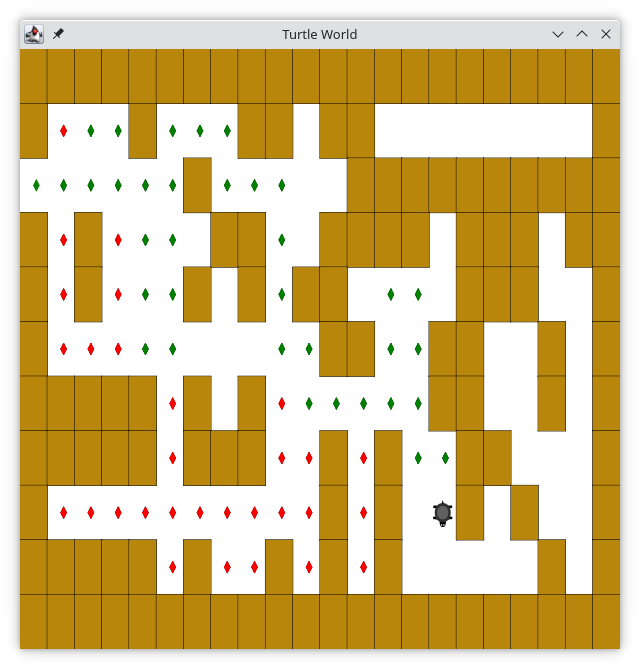
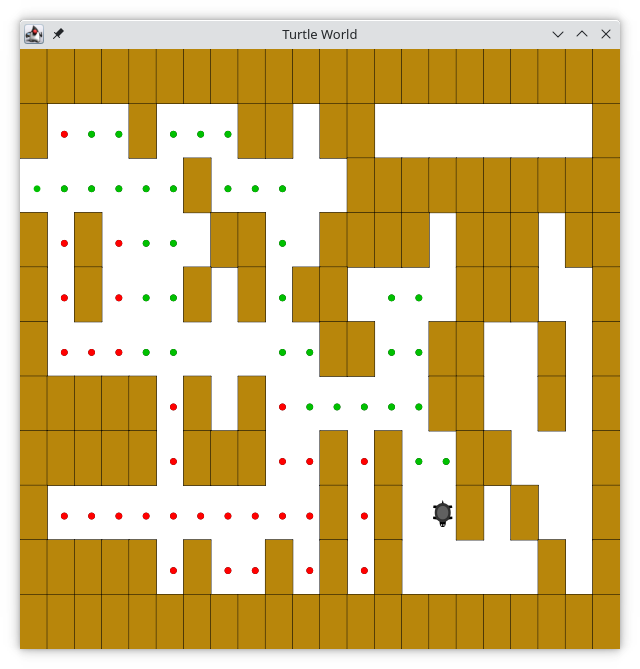
dropBreadCrumb now draws dots.

diff --git a/javads_code/recursion/Maze.java b/javads_code/recursion/Maze.java
@@ -71,6 +71,7 @@ public class Maze {
             }
         }
         this.habitat.setUpdating(true);
+        t.setDelay(0.04);
     }
 
     public void drawCenteredBox(double x, double y, Color color) {
@@ -95,7 +96,7 @@ public class Maze {
         
             Color color = null;
             if (value.equals(PART_OF_PATH)) {
-                color = new Color(0, 128, 0);
+                color = new Color(0, 192, 0);  //bright green
             } else if (value.equals(OBSTACLE)) {
                 color = Color.RED;
             } else if (value.equals(TRIED)) {
@@ -118,33 +119,10 @@ public class Maze {
     }
     
     public void dropBreadCrumb(Color color) {
-        double saveHeading = t.getHeading();
         Color saveColor = t.getColor();
-        boolean savePenDown = t.isPenDown();
-        this.habitat.setUpdating(false);
-        t.setDelay(0);
-        t.setHeading(0);
-        t.penUp();
         t.setColor(color);
-        t.setFillColor(color);
-        t.beginFill();
-        t.turnRight(45);
-        t.penDown();
-        for (int i = 0; i < 4; i++) {
-            t.forward(0.141);
-            t.turnLeft(90);
-        }
-        t.endFill();
+        t.drawDot(0.25);
         t.setColor(saveColor);
-        t.setHeading(saveHeading);
-        if (savePenDown) {
-            t.penDown();
-        } else {
-            t.penUp();
-        }
-        this.habitat.setUpdating(true);
-        t.show();
-        t.setDelay(0.05);
     }
         
     public boolean isExit(int row, int col) {

diff --git a/javads_code/recursion/TurtleTest.java b/javads_code/recursion/TurtleTest.java
@@ -5,23 +5,10 @@ public class TurtleTest
 {
     
       public static void dropBreadCrumb(Turtle t, Color color) {
-        double saveHeading = t.getHeading();
-        Color saveColor = t.getColor();
-        t.penUp();
-        t.setColor(color);
         t.setFillColor(color);
-        t.beginFill();
-        t.setHeading(0);
-        t.forward(0.1);
-        t.turnRight(45);
-        t.penDown();
-        for (int i = 0; i < 4; i++) {
-            t.forward(0.141);
-            t.turnLeft(90);
-        }
-        t.endFill();
-        t.setColor(saveColor);
-        t.setHeading(saveHeading);
+        t.setColor(color);
+        t.drawDot(10);
+    
     }
 
   public static void main(String[] args)

diff --git a/javads_code/recursion/World.java b/javads_code/recursion/World.java
@@ -168,6 +168,17 @@ public class World extends JFrame {
             this.blit();
         }
 	}
+    
+    void drawDot(Point2D.Double p1, double diameter, Color color) {
+        this.gg.setColor(color);
+        Ellipse2D.Double ellipse = new Ellipse2D.Double(p1.x, p1.y,
+            diameter, diameter);
+        this.gg.fill(ellipse);
+        
+        if (this.updating) {
+            this.blit();
+        }
+    }
 	
     void fill(Path2D path, Color c) {
         Color saveColor = this.gg.getColor();

diff --git a/javads_code/recursion/Turtle.java b/javads_code/recursion/Turtle.java
@@ -527,8 +527,9 @@ public class Turtle {
 		}
 	}
     
-    public void drawDot(int diameter, Color color) {
-        world.drawDot(this.location, diameter, color);
+    public void drawDot(double diameter) {
+        diameter = this.world.getScaleX() * diameter;
+        world.drawDot(this.location, diameter, this.getColor());
     }
     
     /**
